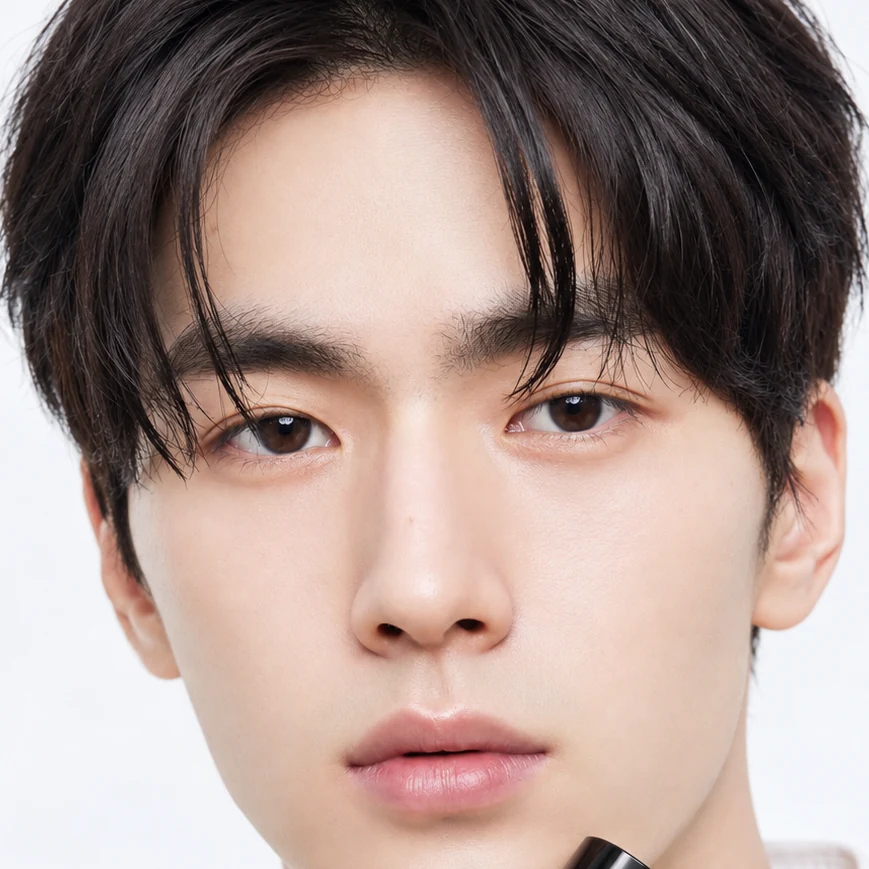
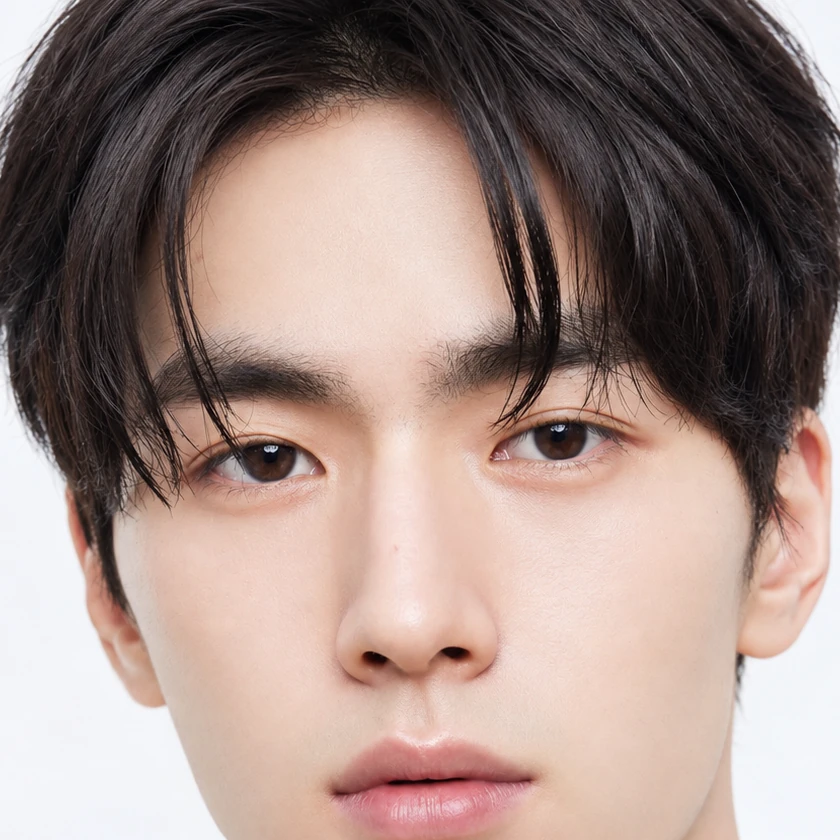
첫 화면 배지 삭제·문구 변경, 샴푸 없는 모델 사진으로 교체, 에이비·뷔엘 성형외과 소속 반영

diff --git a/app/page.tsx b/app/page.tsx
@@ -43,13 +43,13 @@ const homeContent: Record<
     heroEyebrow: "광고 없는 병원 추천",
     heroTitle: ["병원 가기 전,", "탱글에서 먼저", "확인하세요."],
     heroBody:
-      "직접 받아 본 경험으로 거른 추천 병원과 시술 가격. 광고·가짜 후기는 뺐습니다.",
+      "검증된 경험 후기와 직접 다녀 본 곳을 바탕으로 필터링한 추천 병원과 시술 가격. 광고·가짜 후기는 뺐습니다.",
     primaryCta: "추천 병원 보기",
     secondaryCta: "시술 가격 비교하기",
     helper: "",
     imageAlt: "카메라로 얼굴을 업로드하고 고민 부위를 표시한 뒤 병원에게만 공개하는 탱글 기능 안내",
     metrics: [
-      { label: "추천 병원", value: `${clinicRecommendations.length}개 분야`, body: "광고 없이, 직접 받아 본 경험으로 고른 피부·성형·치과" },
+      { label: "추천 병원", value: `${clinicRecommendations.length}개 분야`, body: "검증된 경험 후기와 직접 다녀 본 곳으로 고른 피부·성형·치과" },
       { label: "조건을 맞춘 가격 비교", value: "78개 규격", body: "샷수, 용량, 회차, 패키지를 구분한 참고가" },
       { label: "나에게 맞는 후보 탐색", value: "5개 질문", body: "고민·예산·나이대·목표·회복 기간으로 정리" },
     ],
@@ -415,14 +415,8 @@ export default function Home() {
               <Image src="/images/hero-main.webp" alt="" width={1086} height={1303} priority quality={85} sizes="(min-width: 1024px) 560px, (min-width: 480px) 440px, 100vw" className="aspect-[5/6] h-auto w-full object-cover object-[50%_25%]" />
             </div>
             <div className="absolute -left-10 bottom-8 hidden w-[38%] overflow-hidden rounded-[22px] border-4 border-[var(--cream)] xl:block">
-              <Image src="/images/hero-face.webp" alt="" width={869} height={869} quality={85} sizes="220px" className="aspect-square h-auto w-full object-cover" />
+              <Image src="/images/hero-face.webp" alt="" width={840} height={840} quality={85} sizes="220px" className="aspect-square h-auto w-full object-cover" />
             </div>
-            {ko && (
-              <div className="absolute right-3 top-3 rounded-2xl bg-white px-4 py-3 shadow-[0_12px_30px_rgba(23,58,49,0.12)] xl:-right-6 xl:top-6">
-                <p className="text-[11px] font-semibold text-[var(--accent)]">운영진이 직접 받은 곳</p>
-                <p className="mt-0.5 text-[15px] font-bold text-[var(--color-carbon)]">{clinicRecommendations.flatMap((item) => item.providers).filter((p) => p.experience).length}곳</p>
-              </div>
-            )}
           </div>
         </section>
 
@@ -511,7 +505,7 @@ export default function Home() {
               <Link href="/global" className="mt-8 inline-flex rounded-full bg-white px-6 py-3 text-[15px] font-semibold text-[var(--brand)] hover:opacity-90">{t("nav.global")} →</Link>
             </div>
             <div className="mx-auto w-full max-w-[560px] overflow-hidden rounded-[24px] lg:max-w-none">
-              <Image src="/images/global.webp" alt="" width={900} height={675} quality={85} sizes="(min-width: 1024px) 520px, (min-width: 600px) 560px, 100vw" className="aspect-[4/3] h-auto w-full object-cover" />
+              <Image src="/images/global.webp" alt="" width={784} height={588} quality={85} sizes="(min-width: 1024px) 520px, (min-width: 600px) 560px, 100vw" className="aspect-[4/3] h-auto w-full object-cover" />
             </div>
           </div>
         </section>

diff --git a/app/layout.tsx b/app/layout.tsx
@@ -14,12 +14,12 @@ export const metadata: Metadata = {
     template: "%s | Tangle",
   },
   description:
-    "병원 가기 전, 탱글에서 먼저. 직접 받아 본 경험으로 거른 피부·성형·치과 추천 병원과 시술 가격을 정리했습니다. 광고·가짜 후기는 뺐습니다.",
+    "병원 가기 전, 탱글에서 먼저. 검증된 경험 후기와 직접 다녀 본 곳을 바탕으로 필터링한 피부·성형·치과 추천 병원과 시술 가격을 정리했습니다. 광고·가짜 후기는 뺐습니다.",
   openGraph: {
     type: "website",
     siteName: "탱글 tangle",
     title: "탱글 | 광고 없는 추천 병원과 시술 가격",
-    description: "직접 받아 본 경험으로 거른 피부·성형·치과 추천 병원과 시술 가격. 광고·가짜 후기는 뺐습니다.",
+    description: "검증된 경험 후기와 직접 다녀 본 곳을 바탕으로 필터링한 피부·성형·치과 추천 병원과 시술 가격. 광고·가짜 후기는 뺐습니다.",
     locale: "ko_KR",
   },
   twitter: { card: "summary_large_image" },

diff --git a/app/global/글로벌안내.tsx b/app/global/글로벌안내.tsx
@@ -68,7 +68,7 @@ export default function GlobalGuide() {
           <p className="mt-6 max-w-2xl text-[16px] leading-8 text-[var(--color-muted)]">{L(copy.intro)}</p>
         </div>
         <div className="mx-auto w-full max-w-[560px] overflow-hidden rounded-[28px] lg:max-w-none">
-          <Image src="/images/global.webp" alt="" width={900} height={675} priority quality={85} sizes="(min-width: 1024px) 520px, (min-width: 600px) 560px, 100vw" className="aspect-[4/3] h-auto w-full object-cover" />
+          <Image src="/images/global.webp" alt="" width={784} height={588} priority quality={85} sizes="(min-width: 1024px) 520px, (min-width: 600px) 560px, 100vw" className="aspect-[4/3] h-auto w-full object-cover" />
         </div>
       </section>
 

diff --git a/app/clinics/page.tsx b/app/clinics/page.tsx
@@ -4,7 +4,7 @@ import 서울경험추천목록 from "./서울경험추천목록";
 
 export const metadata: Metadata = {
   title: "검증된 추천 병원 — 피부·성형·치과",
-  description: "광고 없이, 직접 받아 본 경험으로 거른 피부·성형·치과 추천 병원. 체험단·가짜 후기는 뺐습니다. 병원·원장·시술명으로 검색해 보세요.",
+  description: "광고 없이, 검증된 경험 후기와 직접 다녀 본 곳을 바탕으로 필터링한 피부·성형·치과 추천 병원. 체험단·가짜 후기는 뺐습니다. 병원·원장·시술명으로 검색해 보세요.",
   alternates: { canonical: "/clinics" },
 };
 
